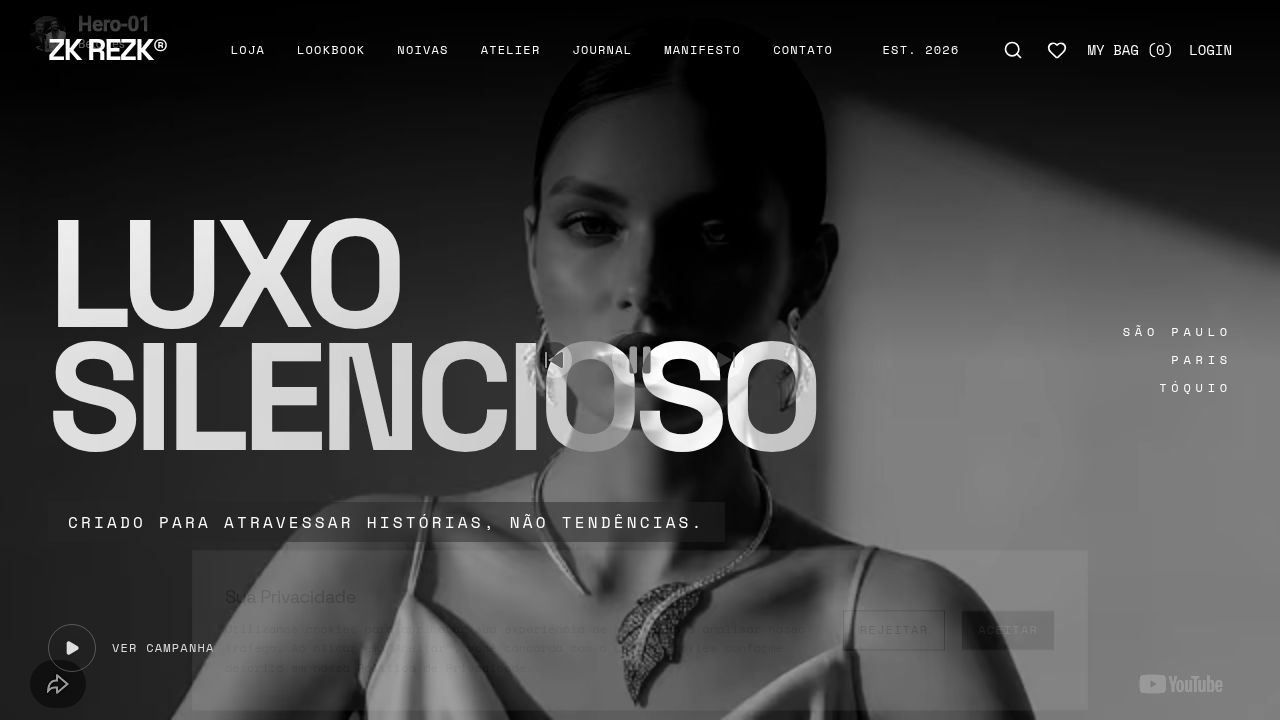
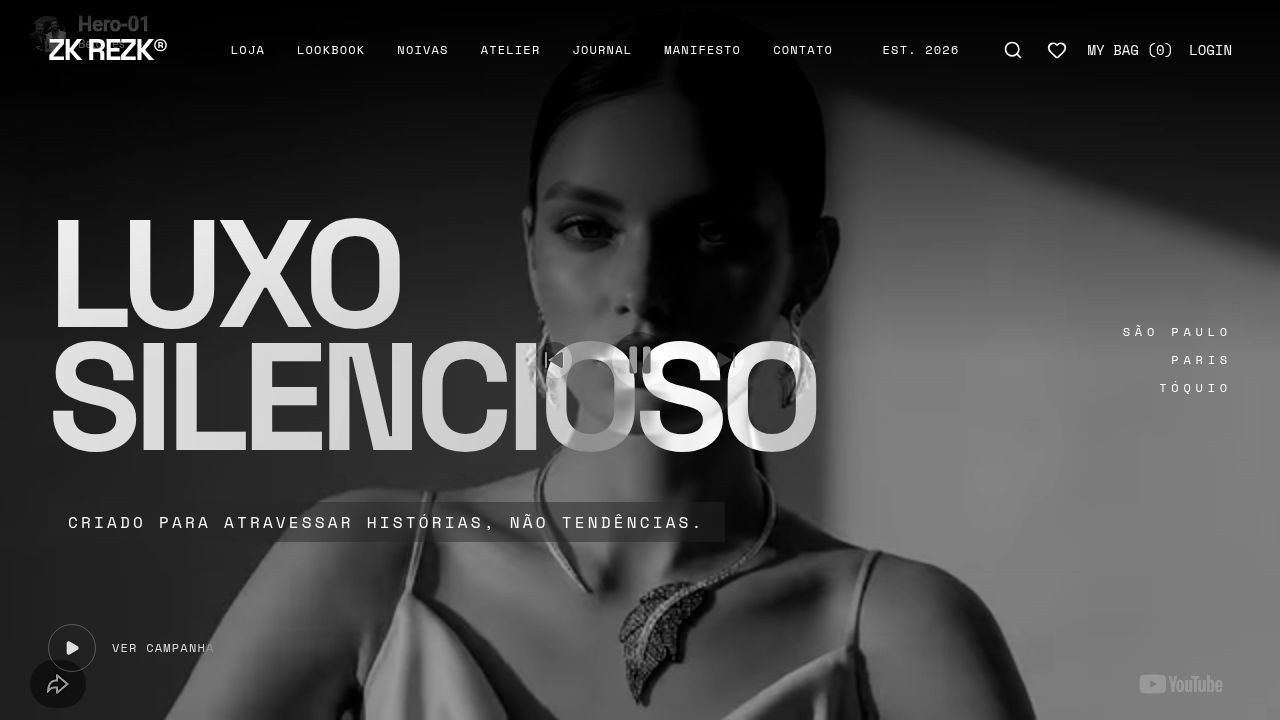
Prevent anonymous requests from creating persistent server sessions
Remove global middleware that created persistent server-side sessions for anonymous requests, ensuring sessions are only created when necessary for authenticated users or explicit actions like checkout.

Replit-Commit-Author: Agent
Replit-Commit-Session-Id: a9f1b15a-c993-47fe-bf01-725941d5a19c
Replit-Commit-Checkpoint-Type: full_checkpoint
Replit-Commit-Event-Id: 6e3fbe0b-a808-4904-97c4-3c1b468ca4b2
Replit-Commit-Screenshot-Url: https://storage.googleapis.com/screenshot-production-us-central1/8baf2d05-f99c-43e2-a4ca-c4aff97afcf7/a9f1b15a-c993-47fe-bf01-725941d5a19c/TVMqmGU

diff --git a/server/routes.ts b/server/routes.ts
@@ -278,14 +278,6 @@ export async function registerRoutes(
   app.use(passport.initialize());
   app.use(passport.session());
 
-  // CSRF token generation - generate on session creation
-  app.use((req: any, res: Response, next: NextFunction) => {
-    if (req.session && !req.session.csrfToken) {
-      req.session.csrfToken = crypto.randomBytes(32).toString("hex");
-    }
-    next();
-  });
-
   // CSRF validation middleware for auth POST/PATCH/DELETE routes
   const csrfProtection = (req: Request, res: Response, next: NextFunction) => {
     const session = (req as any).session;